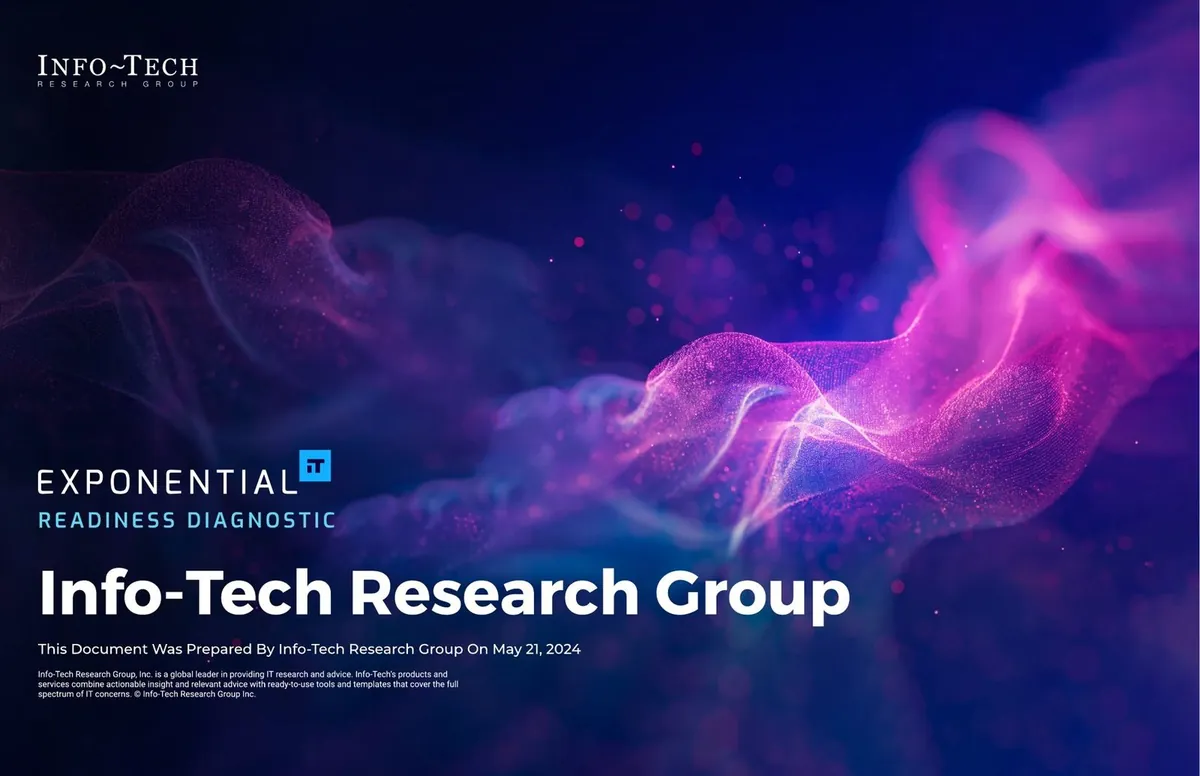
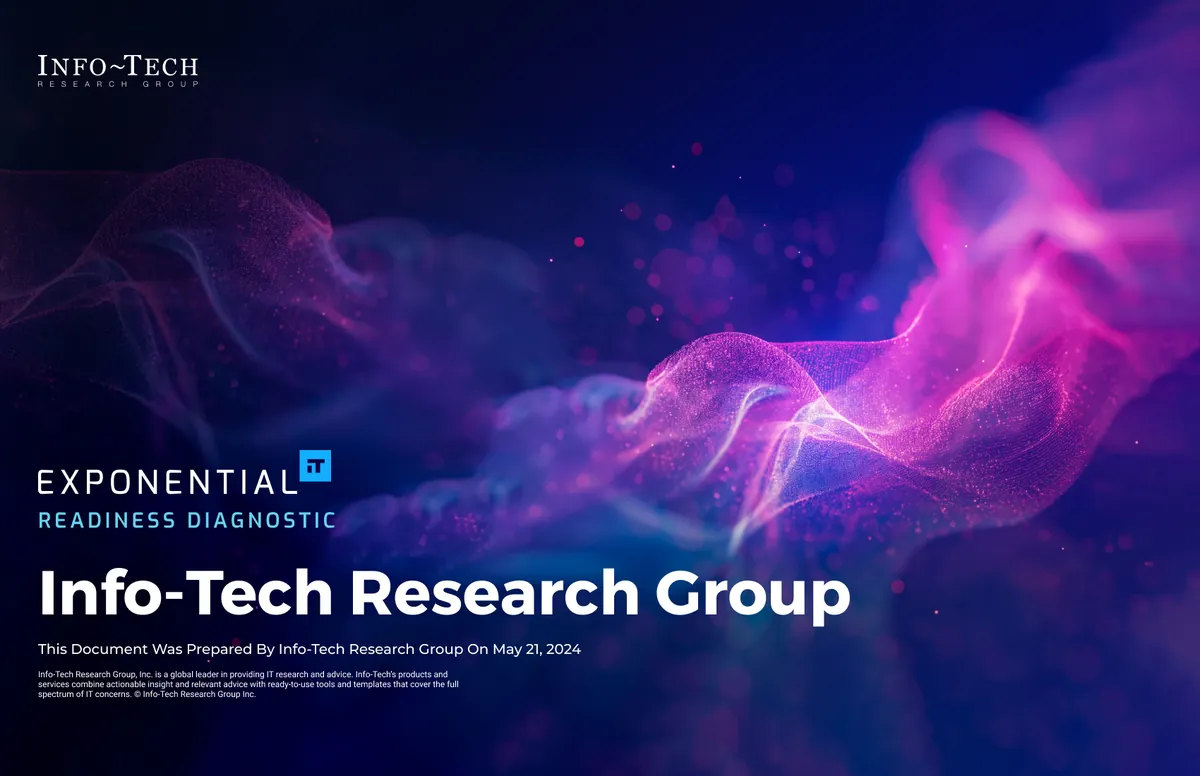
Diagnostic Reports: new Exponential IT cover (Info-Tech, no client name)
Claude-Session: https://claude.ai/code/session_01VL4Lb2NPkxV2R89rKHL5Ya

diff --git a/preview-3d8f7617/projects/project-3.html b/preview-3d8f7617/projects/project-3.html
@@ -55,7 +55,7 @@
 </div>
 <p class="text-sm text-muted mb-6">I designed the complete report and was partway through coding it when the project was cancelled, so this design was never published. Shown with sample data.</p>
 <a class="zoom" href="../images/report-exponential-cover.webp">
-<img alt="Report cover: Exponential IT Readiness Diagnostic, with the company name in large white type over a flowing pink and purple particle wave on a dark background." class="w-full" height="1035" loading="lazy" sizes="(min-width: 1040px) 960px, 100vw" src="../images/report-exponential-cover.webp" srcset="../images/report-exponential-cover-800.webp 800w, ../images/report-exponential-cover-1200.webp 1200w, ../images/report-exponential-cover.webp 1600w" width="1600"/></a>
+<img alt="Report cover: Exponential IT Readiness Diagnostic, prepared by Info-Tech Research Group, in large white type over a flowing pink and purple particle wave on a dark background." class="w-full" height="1035" loading="lazy" sizes="(min-width: 1040px) 960px, 100vw" src="../images/report-exponential-cover.webp" srcset="../images/report-exponential-cover-800.webp 800w, ../images/report-exponential-cover-1200.webp 1200w, ../images/report-exponential-cover.webp 1600w" width="1600"/></a>
 <div class="grid md:grid-cols-2 gap-x-8 gap-y-12">
 <div>
 <a class="zoom" href="../images/report-exponential-strategy.webp">
